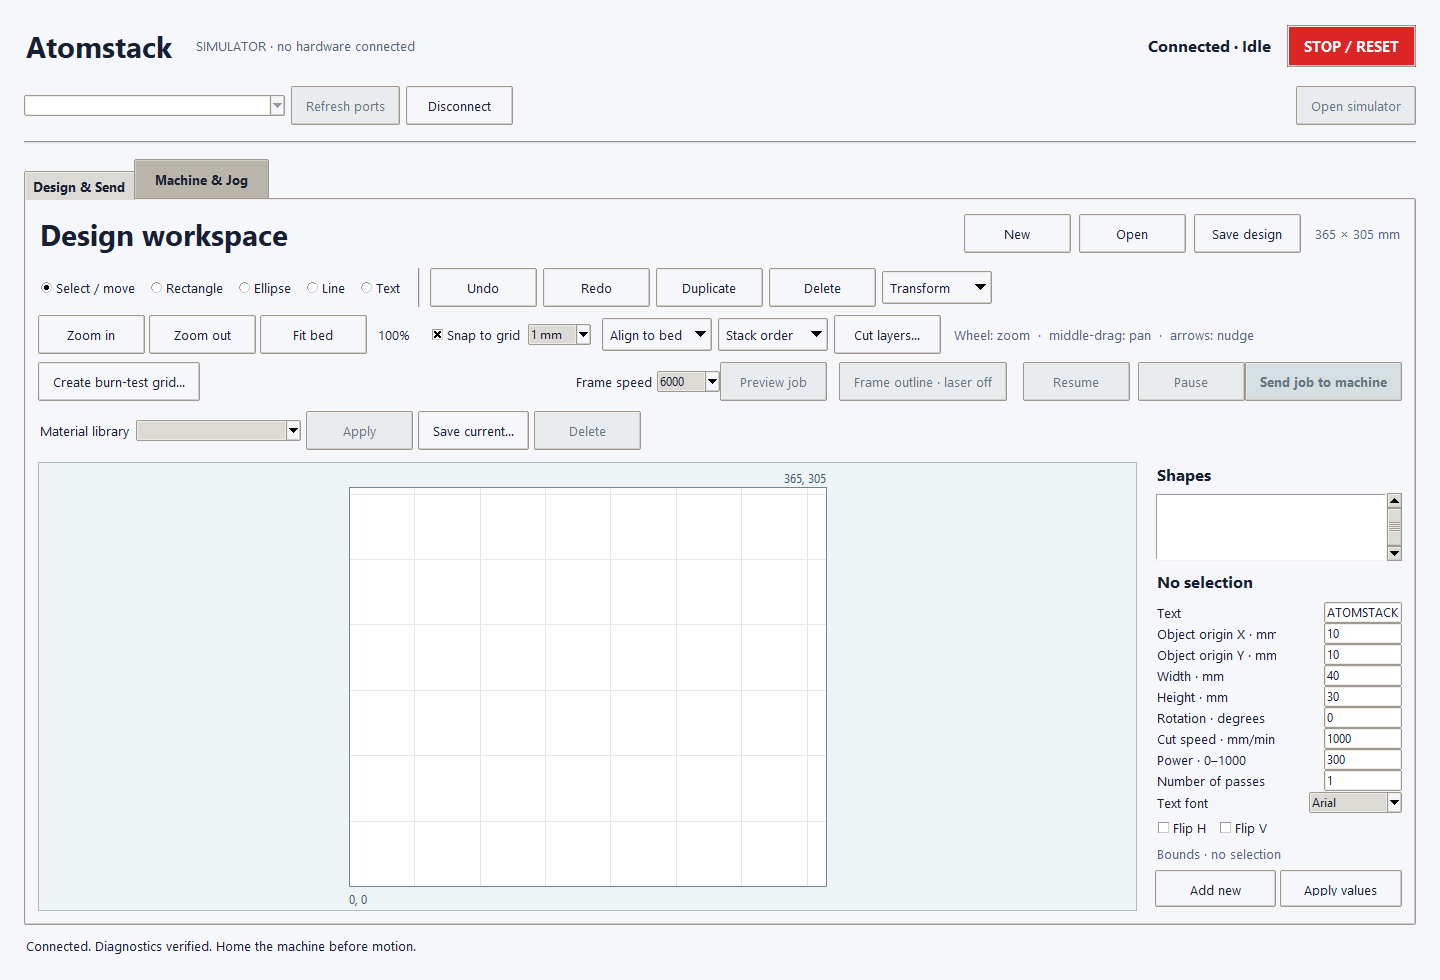
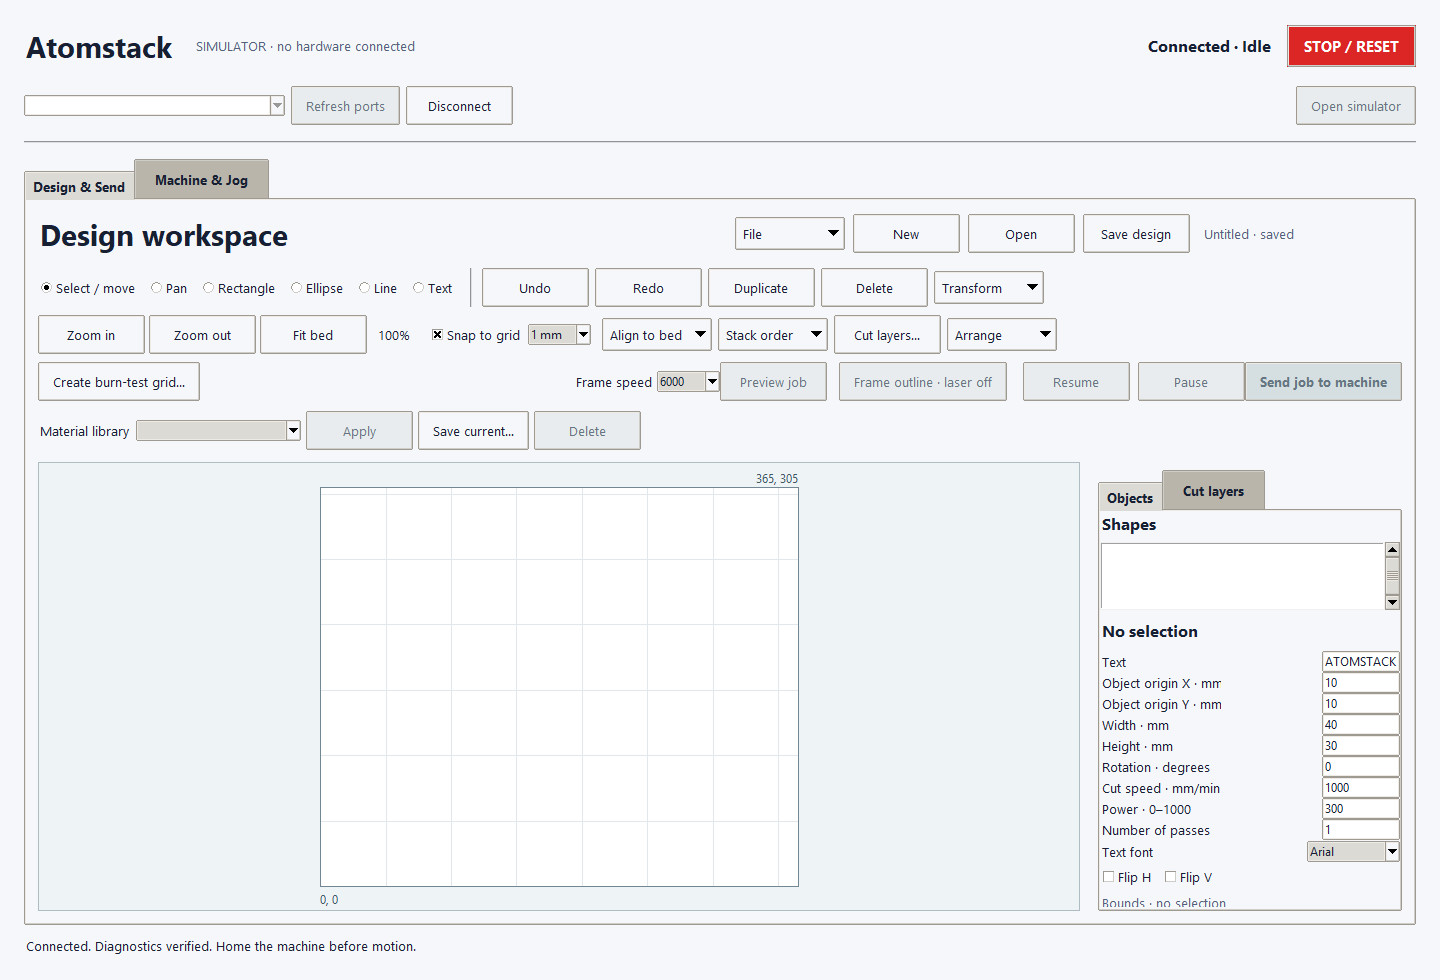
Keep object editing actions visible in the scrollable inspector

diff --git a/atomstack/ui.py b/atomstack/ui.py
@@ -677,8 +677,21 @@ class GeometryWindow:
         self.bed.bind("<ButtonRelease-2>", self.pan_release)
         self.inspector = ttk.Notebook(content, width=300)
         self.inspector.grid(row=0, column=1, sticky="nsew")
-        side = ttk.Frame(self.inspector, width=290)
-        self.inspector.add(side, text="Objects")
+        object_panel = ttk.Frame(self.inspector, width=290)
+        self.inspector.add(object_panel, text="Objects")
+        object_footer = ttk.Frame(object_panel)
+        object_footer.pack(side="bottom", fill="x")
+        object_body = ttk.Frame(object_panel)
+        object_body.pack(fill="both", expand=True)
+        self.object_scroll = tk.Canvas(object_body, width=285, highlightthickness=0, background="#f5f7fb")
+        object_bar = ttk.Scrollbar(object_body, orient="vertical", command=self.object_scroll.yview)
+        object_bar.pack(side="right", fill="y")
+        self.object_scroll.pack(side="left", fill="both", expand=True)
+        self.object_scroll.configure(yscrollcommand=object_bar.set)
+        side = ttk.Frame(self.object_scroll, padding=4)
+        object_item = self.object_scroll.create_window((0,0), window=side, anchor="nw")
+        side.bind("<Configure>", lambda e: self.object_scroll.configure(scrollregion=self.object_scroll.bbox("all")))
+        self.object_scroll.bind("<Configure>", lambda e: self.object_scroll.itemconfigure(object_item, width=e.width))
         self.layer_panel = ttk.Frame(self.inspector)
         self.inspector.add(self.layer_panel, text="Cut layers")
         ttk.Label(side, text="Shapes", style="Section.TLabel").pack(anchor="w")
@@ -716,7 +729,7 @@ class GeometryWindow:
         self.mirror_y_button.pack(side="left", padx=8)
         ttk.Label(side, textvariable=self.bounds_text, style="Quiet.TLabel", wraplength=265,
                   justify="left").pack(anchor="w", pady=(4, 0))
-        value_actions = ttk.Frame(side)
+        value_actions = ttk.Frame(object_footer)
         value_actions.pack(fill="x", pady=(6, 4))
         self.add_value_button = ttk.Button(value_actions, text="Add new", command=self.add_from_values)
         self.add_value_button.pack(side="left", fill="x", expand=True, padx=(0, 2))
